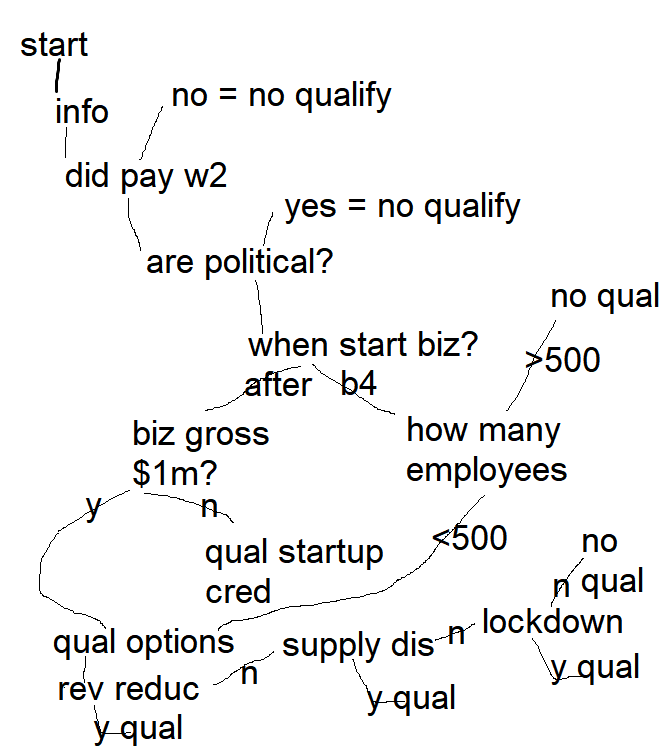
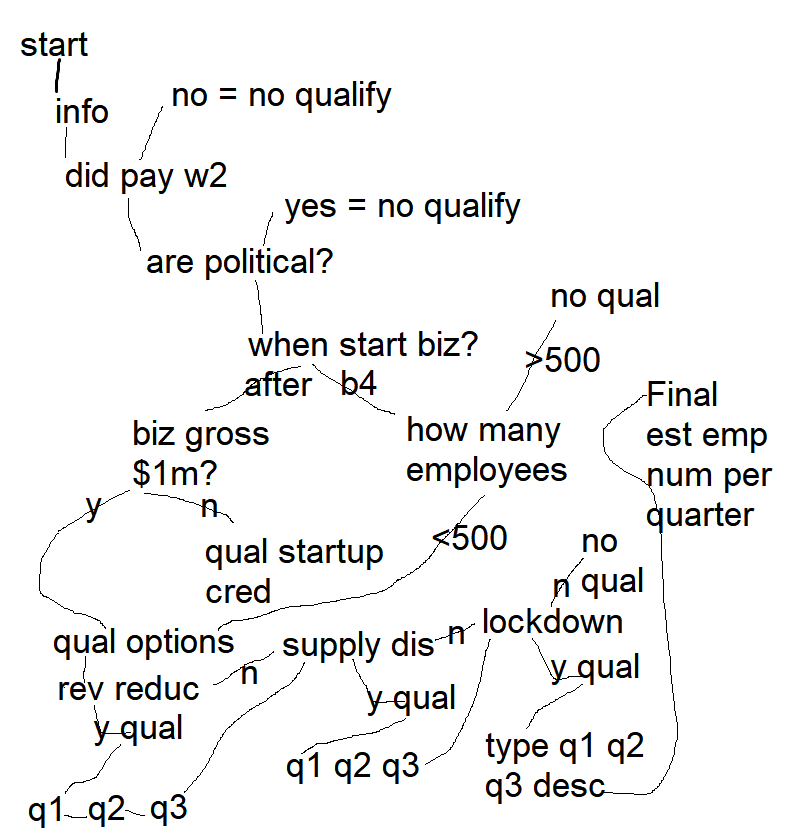
rev checkboxes

diff --git a/revqual.html b/revqual.html
@@ -47,6 +47,38 @@
                                         </div>
                                     </div>
                                 </div>
+                                <div id='check-container' style='display: none;'>
+                                    <div id="div_id_revenue_qualifier_q1" class=" mb-3">
+                                        <div>
+                                            <div class="form-check">
+                                                <input type="checkbox" class="form-check-input" name="revenue_qualifier_q1" value="true" id="id_revenue_qualifier_q1">
+                                                <label for="id_revenue_qualifier_q1" class="form-check-label">
+                                                    My <strong>Q1 2021</strong> gross revenue was <strong>20% lower</strong> than <strong>Q1 2019</strong> (or Q1 2020 if not in business in Q1 2019)
+                                                </label>
+                                            </div>
+                                        </div>
+                                    </div>
+                                    <div id="div_id_revenue_qualifier_q2" class=" mb-3">
+                                        <div>
+                                            <div class="form-check">
+                                                <input type="checkbox" class="form-check-input" name="revenue_qualifier_q2" value="true" id="id_revenue_qualifier_q2">
+                                                <label for="id_revenue_qualifier_q2" class="form-check-label">
+                                                    My <strong>Q2 2021</strong> gross revenue was <strong>20% lower</strong> than <strong>Q2 2019</strong> (or Q2 2020 if not in business in Q2 2019)
+                                                </label>
+                                            </div>
+                                        </div>
+                                    </div>
+                                    <div id="div_id_revenue_qualifier_q3" class=" mb-3">
+                                        <div>
+                                            <div class="form-check">
+                                                <input type="checkbox" class="form-check-input" name="revenue_qualifier_q3" value="true" id="id_revenue_qualifier_q3">
+                                                <label for="id_revenue_qualifier_q3" class="form-check-label">
+                                                    My <strong>Q3 2021</strong> gross revenue was <strong>20% lower</strong> than <strong>Q3 2019</strong> (or Q3 2020 if not in business in Q3 2019)
+                                                </label>
+                                            </div>
+                                        </div>
+                                    </div>
+                                </div>
                                 <div id="button-bar" class="d-flex border-top button-bar justify-content-between align-items-center flex-column flex-sm-row">
                                     <a type="button" class="btn btn-light" name="back" value="back" id="back-button" href="./qualop.html">
                                         <div class="d-flex align-items-center justify-content-center">
@@ -77,5 +109,6 @@
         </div>
         <script src="https://cdn.jsdelivr.net/npm/bootstrap@5.3.0-alpha1/dist/js/bootstrap.bundle.min.js" integrity="sha384-w76AqPfDkMBDXo30jS1Sgez6pr3x5MlQ1ZAGC+nuZB+EYdgRZgiwxhTBTkF7CXvN" crossorigin="anonymous" async defer></script>
         <script src="./erc.js" async defer></script>
+        <script src="./revqual.js" async defer></script>
     </body>
 </html>

diff --git a/erc.js b/erc.js
@@ -105,14 +105,18 @@ function persistInput(inputs) {
         const key = input.name;
         const storedValue = localStorage.getItem(key);
 
-        if (storedValue && input.type != 'radio'){
+        if (storedValue && input.type != 'radio' && input.type != 'checkbox'){
         input.value = storedValue;
         }
-        if(input.type == 'radio' && input.value == storedValue){
+        if((input.type == 'radio'|| input.type == 'checkbox') && input.value == storedValue){
             input.checked = true
         }
         input.addEventListener('input', function () {
-            localStorage.setItem(key, input.value);
+            if(input.type != 'checkbox'){
+                localStorage.setItem(key, input.value);
+            }else{
+                    localStorage.setItem(key, input.checked)
+            }
         });
     }
 }

diff --git a/revqual.js b/revqual.js
@@ -1,0 +1,21 @@
+const radioYes = document.getElementById('id_had_revenue_reduction_0')
+const radioNo = document.getElementById('id_had_revenue_reduction_1')
+const container = document.getElementById('check-container')
+
+function hideUnhide () {
+    if(radioYes.checked == true){
+        container.style = ''
+    }
+    if(radioNo.checked == true){
+        container.style = 'display: none;'
+    }
+}
+
+radioYes.addEventListener('input', function () {
+    hideUnhide();
+});
+radioNo.addEventListener('input', function () {
+    hideUnhide();
+});
+hideUnhide()
+window.onmousemove = hideUnhide
